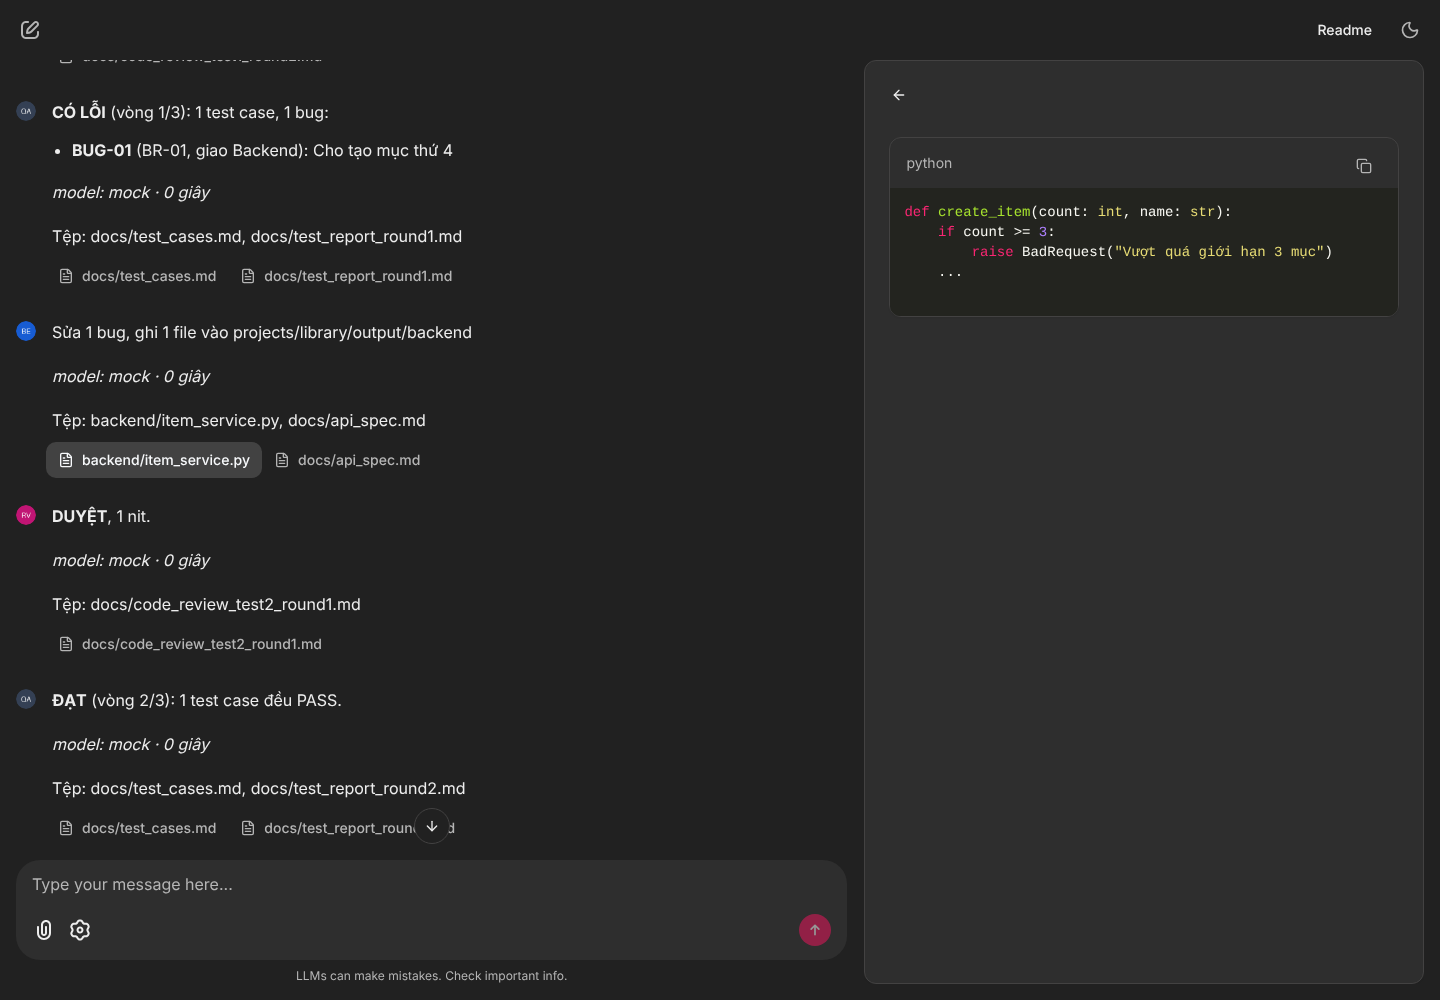
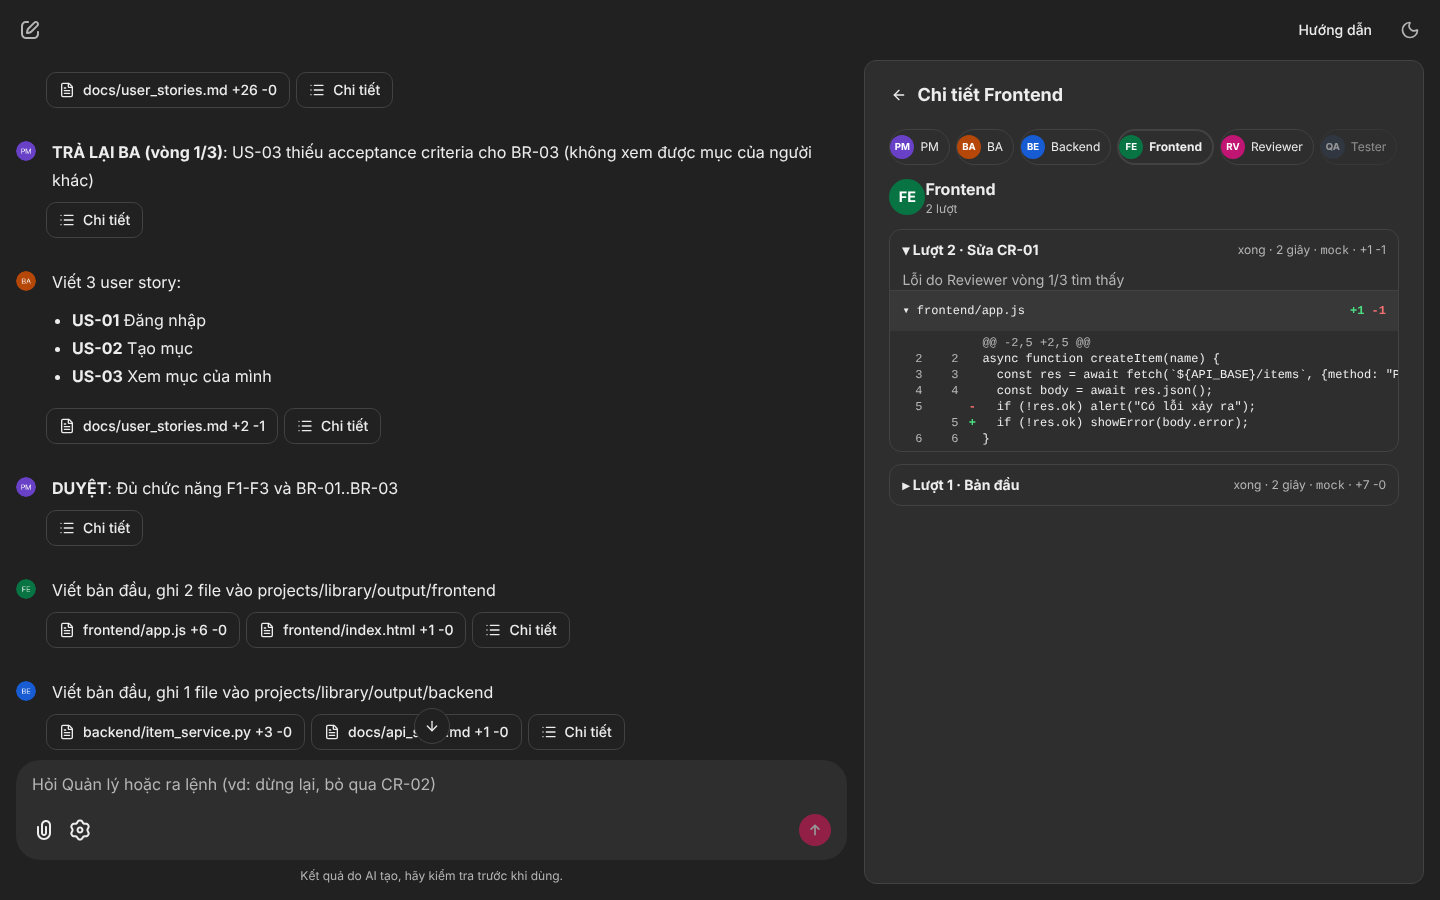
fix(ui): Vietnamese UI text, visible action buttons, clean output per run, tidier role panel
- Chainlit chrome in Vietnamese (vi-VN translation, placeholder hints Manager commands)
- Outlined action buttons, neutral system avatar
- Previous output moves to <project>/output_history/<run_id>/ (keep 5) so diffs show only this run
- Shorter model line (cả team=X), no repeated mock footer
- Role panel: one scrolling chip row, running dot, idle chips dimmed, single close button, diffs no longer wrap

Claude-Session: https://claude.ai/code/session_01UwipXDdV7qYWBFtr4P9CUz

diff --git a/public/elements/RoleDetail.jsx b/public/elements/RoleDetail.jsx
@@ -1,6 +1,6 @@
 // Khung "Chi tiết" của một role (FR-13 đến FR-15). Props do ui/turns.py dựng (Turns.props).
 // Chainlit đưa vào `props` và các hàm toàn cục `callAction`, `updateElement`.
-import { useState } from "react";
+import { useEffect, useRef, useState } from "react";
 
 const COLORS = { PM: "#6941C6", BA: "#B54708", Backend: "#175CD3", Frontend: "#087443", Reviewer: "#C11574", Tester: "#344054" };
 const SHORT = { PM: "PM", BA: "BA", Backend: "BE", Frontend: "FE", Reviewer: "RV", Tester: "QA" };
@@ -31,8 +31,8 @@ function Phases({ turn }) {
         const done = i < at, now = i === at;
         const cls = done ? "bg-green-600/15 text-green-700 dark:text-green-300"
           : now ? "bg-blue-600/15 text-blue-700 dark:text-blue-300 font-semibold"
-          : "border border-border text-muted-foreground";
-        return <li key={key} className={`rounded-full px-2.5 py-1 ${cls}`}>{done ? "✓ " : now ? "● " : ""}{label}</li>;
+          : "bg-muted/60 text-muted-foreground";
+        return <li key={key} className={`rounded-full px-2.5 py-1 ${cls}`}>{done ? "✓ " : now ? "● " : "○ "}{label}</li>;
       })}
     </ol>
   );
@@ -55,7 +55,7 @@ function Diff({ file }) {
             const bg = l.kind === "add" ? "bg-green-500/15" : l.kind === "del" ? "bg-red-500/15" : l.kind === "hunk" ? "bg-blue-500/10 text-muted-foreground" : "";
             const sign = l.kind === "add" ? "+" : l.kind === "del" ? "-" : "";
             return (
-              <div key={i} className={`flex whitespace-pre ${bg}`}>
+              <div key={i} className={`flex ${bg}`} style={{ whiteSpace: "pre", width: "max-content", minWidth: "100%" }}>
                 <span className="w-9 shrink-0 select-none pr-1 text-right text-muted-foreground">{l.old ?? ""}</span>
                 <span className="w-9 shrink-0 select-none pr-1 text-right text-muted-foreground">{l.new ?? ""}</span>
                 <span className={`w-5 shrink-0 select-none text-center font-bold ${l.kind === "add" ? "text-green-700 dark:text-green-400" : "text-red-700 dark:text-red-400"}`}>{sign}</span>
@@ -104,19 +104,26 @@ function TurnCard({ turn, first }) {
 
 export default function RoleDetail() {
   const turns = props.turns || [];
+  const chosen = useRef(null);
+  useEffect(() => {  // màn hình hẹp: hàng role cuộn ngang, đưa role đang xem vào tầm nhìn
+    if (chosen.current) chosen.current.scrollIntoView({ block: "nearest", inline: "nearest" });
+  }, [props.role]);
   const running = turns.filter(t => t.status === "running").length;
   return (
     <div className="flex flex-col gap-3 text-foreground">
-      <div className="flex flex-wrap gap-1.5" role="group" aria-label="Đổi role">
-        {props.roles.map(r => (
-          <button key={r} type="button" aria-pressed={r === props.role}
-            onClick={() => callAction({ name: "show_role", payload: { role: r } })}
-            className={`inline-flex items-center gap-1.5 rounded-full py-1 pl-1 pr-2.5 text-xs min-h-[36px] ${r === props.role ? "border-2 border-blue-600 font-semibold" : "border border-border"}`}>
-            <Avatar role={r} size={24} />{r}
-          </button>
-        ))}
-        <button type="button" onClick={() => callAction({ name: "close_role", payload: {} })}
-          className="ml-auto rounded-md border border-border px-3 text-xs min-h-[36px]">Đóng</button>
+      <div className="-mx-1 flex gap-1.5 overflow-x-auto px-1 pb-1" role="group" aria-label="Đổi role">
+        {props.roles.map(r => {
+          const st = (props.role_status || {})[r] || "idle";
+          return (
+            <button key={r} type="button" aria-pressed={r === props.role} ref={r === props.role ? chosen : null}
+              title={st === "running" ? `${r} đang làm` : st === "idle" ? `${r} chưa làm lượt nào` : r}
+              onClick={() => callAction({ name: "show_role", payload: { role: r } })}
+              className={`inline-flex shrink-0 items-center gap-1.5 rounded-full py-1 pl-1 pr-2.5 text-xs min-h-[36px] ${r === props.role ? "border-2 border-blue-600 font-semibold" : "border border-border"} ${st === "idle" && r !== props.role ? "opacity-50" : ""}`}>
+              <Avatar role={r} size={24} />{r}
+              {st === "running" && <span aria-hidden="true" style={{ width: 8, height: 8, borderRadius: 9999, background: "#2563eb" }} />}
+            </button>
+          );
+        })}
       </div>
       <div className="flex items-center gap-2.5">
         <Avatar role={props.role} size={36} />

diff --git a/public/style.css b/public/style.css
@@ -1,0 +1,11 @@
+/* Nút hành động (chọn dự án, Chạy, Chi tiết, tên file, Đồng ý/Không): Chainlit vẽ như chữ thường, khó nhận ra là nút */
+[data-step-type="assistant_message"] button[id]:not([id^="step-"]) {
+  border: 1px solid hsl(var(--border));
+  color: hsl(var(--foreground));
+  margin: 0 6px 6px 0;
+}
+[data-step-type="assistant_message"] button[id]:not([id^="step-"]):hover {
+  border-color: hsl(var(--primary));
+}
+/* Bảng trong tin nhắn (kế hoạch, xác nhận model): chữ nhỏ hơn để không chiếm cả màn hình */
+[data-step-type="assistant_message"] table { font-size: 0.875rem; }

diff --git a/ui/app.py b/ui/app.py
@@ -29,7 +29,8 @@ from graph import build_graph  # noqa: E402
 from agents.providers import (ESCALATABLE, ROLES, default_specs, escalation_specs, load_providers,  # noqa: E402
                               model_choices)
 from tools.project import list_projects, load_project  # noqa: E402
-from tools.run import format_models, prepare_run  # noqa: E402
+from tools.file_tools import display  # noqa: E402
+from tools.run import archive_output, format_models, prepare_run  # noqa: E402
 from ui.manager import Command, ask_manager, build_patch, command_from, manager_spec, validate  # noqa: E402
 from ui.runner import RunControl, exclusive_run, stream_events  # noqa: E402
 from ui.turns import Turns, file_changes  # noqa: E402
@@ -104,8 +105,12 @@ async def on_chat_start():
         await cl.Message(content="Chưa có dự án nào. Chép `projects/_template/` thành `projects/<tên>/` rồi tải lại trang.").send()
         return
     actions = [cl.Action(name="pick_project", payload={"project": p}, label=_project_title(p)) for p in projects]
-    await cl.Message(content="Xin chào. Chọn một dự án để team bắt đầu làm. Model của từng role nằm trong phần "
-                             "cài đặt (biểu tượng bánh răng cạnh ô nhập); thay đổi ở đó không ghi vào `.env`.",
+    await cl.Message(content="**Chọn dự án** để team bắt đầu làm.\n\n"
+                             "- Biểu tượng bánh răng cạnh ô nhập: đổi model từng role, hoặc bật chạy thử (mock) "
+                             "không tốn token. Thay đổi ở đó không ghi vào `.env`.\n"
+                             "- Trong lúc team chạy: gõ vào ô nhập để hỏi Quản lý, hoặc ra lệnh như "
+                             "\"dừng lại\", \"bỏ qua CR-02\", \"dặn frontend: ...\".\n"
+                             "- Bấm **Chi tiết** dưới tin của một role để xem từng lượt và phần code đã sửa.",
                      actions=actions).send()
     if esc_error:
         await cl.Message(content=f"Cấu hình model vòng sửa cuối chưa đúng, tạm để \"{KEEP}\": {esc_error}").send()
@@ -360,7 +365,9 @@ async def _run(setup, *, mock: bool, delay: float) -> None:
     cl.user_session.set("turns", turns)
     task_list = cl.TaskList()
     await _send_tasks(task_list, progress, "Đang chạy")
-    await cl.Message(content=f"Bắt đầu lượt `{setup.run_id}` · {format_models(setup, code=True)}").send()
+    moved = archive_output(out_dir, setup.run_id)
+    note = f"\n\nĐầu ra lượt trước đã chuyển sang `{display(moved)}`." if moved else ""
+    await cl.Message(content=f"Bắt đầu lượt `{setup.run_id}` · {format_models(setup, code=True)}{note}").send()
 
     placeholders: dict[str, cl.Message] = {}
     tickers: dict[str, asyncio.Task] = {}

diff --git a/tools/run.py b/tools/run.py
@@ -3,6 +3,7 @@ main.py và giao diện (ui/app.py) cùng gọi prepare_run() nên kiểm tra gi
 from __future__ import annotations
 
 import os
+import shutil
 from dataclasses import dataclass
 from datetime import datetime
 from pathlib import Path
@@ -86,8 +87,33 @@ def prepare_run(project: str, requirements: str | None = None, *,
                     models=used, escalate=last, problems=problems, real_model=real)
 
 
+HISTORY_KEEP = 5  # số bản đầu ra cũ giữ lại trong output_history/
+
+
+def archive_output(out_dir: Path, run_id: str) -> Path | None:
+    """Chuyển đầu ra của lượt trước sang <dự án>/output_history/<run_id>/ để lượt này bắt đầu từ thư mục trống:
+    file cũ không lẫn vào kết quả mới, và phần sửa (diff) của "bản đầu" so với rỗng chứ không so với lượt trước.
+    Giữ HISTORY_KEEP bản gần nhất. Trả về thư mục đã chuyển tới, None nếu không có gì để chuyển."""
+    out_dir = Path(out_dir)
+    if not out_dir.is_dir() or not any(out_dir.iterdir()):
+        return None
+    history = out_dir.parent / "output_history"
+    history.mkdir(parents=True, exist_ok=True)
+    dest = history / run_id
+    out_dir.rename(dest)
+    out_dir.mkdir()
+    for old in sorted(p for p in history.iterdir() if p.is_dir())[:-HISTORY_KEEP]:
+        shutil.rmtree(old, ignore_errors=True)
+    return dest
+
+
 def format_models(setup: RunSetup, code: bool = False) -> str:
-    """'pm=claude-code:sonnet · ... · backend=opencode-go:glm-5.3 (vòng cuối: claude-code:opus) · ...'"""
+    """'pm=claude-code:sonnet · ... · backend=opencode-go:glm-5.3 (vòng cuối: claude-code:opus) · ...';
+    mọi role cùng một model và không có vòng cuối thì chỉ 'cả team=<model>'."""
+    q0 = (lambda m: f"`{m}`") if code else (lambda m: m)
+    values = set(setup.models.values())
+    if len(values) == 1 and len(setup.models) == len(ROLES) and not setup.escalate:
+        return f"cả team={q0(values.pop())}"
     parts = []
     for role in ROLES:
         model = setup.models.get(role, "LỖI")

diff --git a/ui/view.py b/ui/view.py
@@ -64,6 +64,8 @@ def _last_log(update: dict) -> dict:
 
 def _footer(data: dict) -> str:
     model = data.get("model", "?")
+    if model == "mock":
+        return ""  # chạy mock: model nào cũng là mock, thời gian luôn 0, dòng này chỉ gây rối
     seconds = data.get("seconds")
     line = f"_model:_ `{model}`" + (f" _· {seconds:g} giây_" if seconds is not None else "")
     if data.get("escalated_from"):
@@ -112,7 +114,8 @@ def _body(node: str, update: dict, summary: str) -> str:
 def message_for(node: str, update: dict) -> str:
     """Markdown của tin nhắn cho một node vừa xong (FR-06), dòng cuối là model và thời gian."""
     entry = _last_log(update)
-    return _body(node, update, entry.get("summary", "")) + "\n\n" + _footer(entry.get("data") or {})
+    footer = _footer(entry.get("data") or {})
+    return _body(node, update, entry.get("summary", "")) + (f"\n\n{footer}" if footer else "")
 
 
 MAX_TEXT_BYTES = 1_000_000
@@ -183,7 +186,7 @@ def summary_text(final: dict, setup, seconds: float) -> str:
         "",
         f"- {len(log)} bước, {final.get('review_round', 0)} lần trả BA, {final.get('iteration', 0)} vòng test",
         f"- Thời gian: {minutes} phút {secs:02d} giây",
-        f"- Model: {format_models(setup)}",
+        f"- Model: {format_models(setup, code=True)}",
     ]
     if changes:
         lines += ["- Đổi model ở vòng sửa cuối:"] + ["  " + c for c in changes]

diff --git a/main.py b/main.py
@@ -58,7 +58,7 @@ def main() -> None:
         have = ", ".join(list_projects()) or "(chưa có; chép projects/_template/ thành projects/<tên>/)"
         sys.exit(f"Cần chọn dự án: --project <tên>. Các dự án hiện có: {have}")
     from tools.file_tools import display
-    from tools.run import format_models, prepare_run
+    from tools.run import archive_output, format_models, prepare_run
     try:
         setup = prepare_run(args.project, args.requirements)  # nạp dự án, kiểm tra model và key theo role
     except FileNotFoundError as e:
@@ -76,6 +76,8 @@ def main() -> None:
             answer = ""
         if answer.strip().lower() not in ("y", "yes", "c", "có"):
             sys.exit("\nĐã hủy. Thêm --yes để chạy không cần hỏi, hoặc --model mock để thử không tốn token.")
+    if moved := archive_output(project.output_dir, run_id):
+        print(f"   Đầu ra lượt trước chuyển sang {display(moved)}")
     print(f"== Run {run_id} · {project.title} ({display(project.requirements_path)}) · log: runs/{run_id}.jsonl ==")
     print(f"   {models}")
     final = app.invoke(setup.state, config=setup.config)

diff --git a/tests/test_run.py b/tests/test_run.py
@@ -58,3 +58,21 @@ def test_format_models_code_quotes_names(tmp_path):
     setup = prepare_run("library", models={"backend": "opencode-go:glm-5.3"}, escalate={}, mock=False,
                         run_id="t", output_dir=tmp_path)
     assert "backend=`opencode-go:glm-5.3`" in format_models(setup, code=True)
+
+
+def test_format_models_whole_team(tmp_path):
+    setup = prepare_run("library", mock=True, run_id="t", output_dir=tmp_path)
+    assert format_models(setup) == "cả team=mock"
+
+
+def test_archive_output_moves_previous_run(tmp_path):
+    from tools.run import HISTORY_KEEP, archive_output
+    out = tmp_path / "output"
+    assert archive_output(out, "r0") is None                 # chưa có gì
+    for i in range(HISTORY_KEEP + 2):
+        (out / "docs").mkdir(parents=True, exist_ok=True)
+        (out / "docs" / "a.md").write_text(str(i))
+        moved = archive_output(out, f"r{i + 1:02d}")
+        assert moved.name == f"r{i + 1:02d}" and (moved / "docs" / "a.md").read_text() == str(i)
+        assert out.is_dir() and not any(out.iterdir())
+    assert len(list((tmp_path / "output_history").iterdir())) == HISTORY_KEEP

diff --git a/tests/test_ui_view.py b/tests/test_ui_view.py
@@ -30,7 +30,7 @@ def mock_updates(tmp_path, monkeypatch):
 
 def test_message_for_every_mock_step(mock_updates):
     msgs = [(node, message_for(node, upd)) for node, upd in mock_updates]
-    assert all(m.strip() and "_model:_ `mock`" in m for _, m in msgs)
+    assert all(m.strip() and "_model:_" not in m for _, m in msgs)  # chạy mock: không có dòng model, thời gian
     assert "CR-01" in next(m for n, m in msgs if n == "reviewer")
     assert "BUG-01" in next(m for n, m in msgs if n == "tester")
     assert "ACCEPTED" in next(m for n, m in msgs if n == "pm_accept")
@@ -101,4 +101,4 @@ def test_summary_text_mock(tmp_path, monkeypatch):
     final = build_graph().invoke(setup.state, setup.config)
     text = summary_text(final, setup, 75.0)
     assert "ACCEPTED" in text and "15 bước" in text
-    assert f"runs/{setup.run_id}.jsonl" in text and "pm=mock" in text
+    assert f"runs/{setup.run_id}.jsonl" in text and "cả team=`mock`" in text

diff --git a/ui/make_avatars.py b/ui/make_avatars.py
@@ -1,4 +1,4 @@
-"""Vẽ 7 ảnh đại diện cho tin nhắn của từng role vào public/avatars/ (chạy tay một lần, cần Pillow):
+"""Vẽ 8 ảnh đại diện cho tin nhắn của từng role vào public/avatars/ (chạy tay một lần, cần Pillow):
 
     python ui/make_avatars.py
 """
@@ -10,7 +10,7 @@ ROOT = Path(__file__).resolve().parent.parent
 ROLES = {  # tên tác giả viết thường -> (chữ, màu nền); màu giống bản thiết kế
     "pm": ("PM", "#6941C6"), "ba": ("BA", "#B54708"), "backend": ("BE", "#175CD3"),
     "frontend": ("FE", "#087443"), "reviewer": ("RV", "#C11574"), "tester": ("QA", "#344054"),
-    "manager": ("QL", "#0E9384"),
+    "manager": ("QL", "#0E9384"), "team_ai_agent": ("AI", "#475467"),  # team_ai_agent: tin của hệ thống
 }
 
 

diff --git a/ui/turns.py b/ui/turns.py
@@ -186,5 +186,7 @@ class Turns:
             d["added"] = sum(f.added for f in t.files)
             d["removed"] = sum(f.removed for f in t.files)
             turns.append(d)
-        return {"role": role, "roles": list(ROLE_ORDER), "turns": turns,
+        status = {r: ("running" if any(t.status == "running" for t in self.of(r)) else "done" if self.of(r) else "idle")
+                  for r in ROLE_ORDER}
+        return {"role": role, "roles": list(ROLE_ORDER), "role_status": status, "turns": turns,
                 "phases": [[p, PHASE_LABELS[p]] for p in PHASES]}
